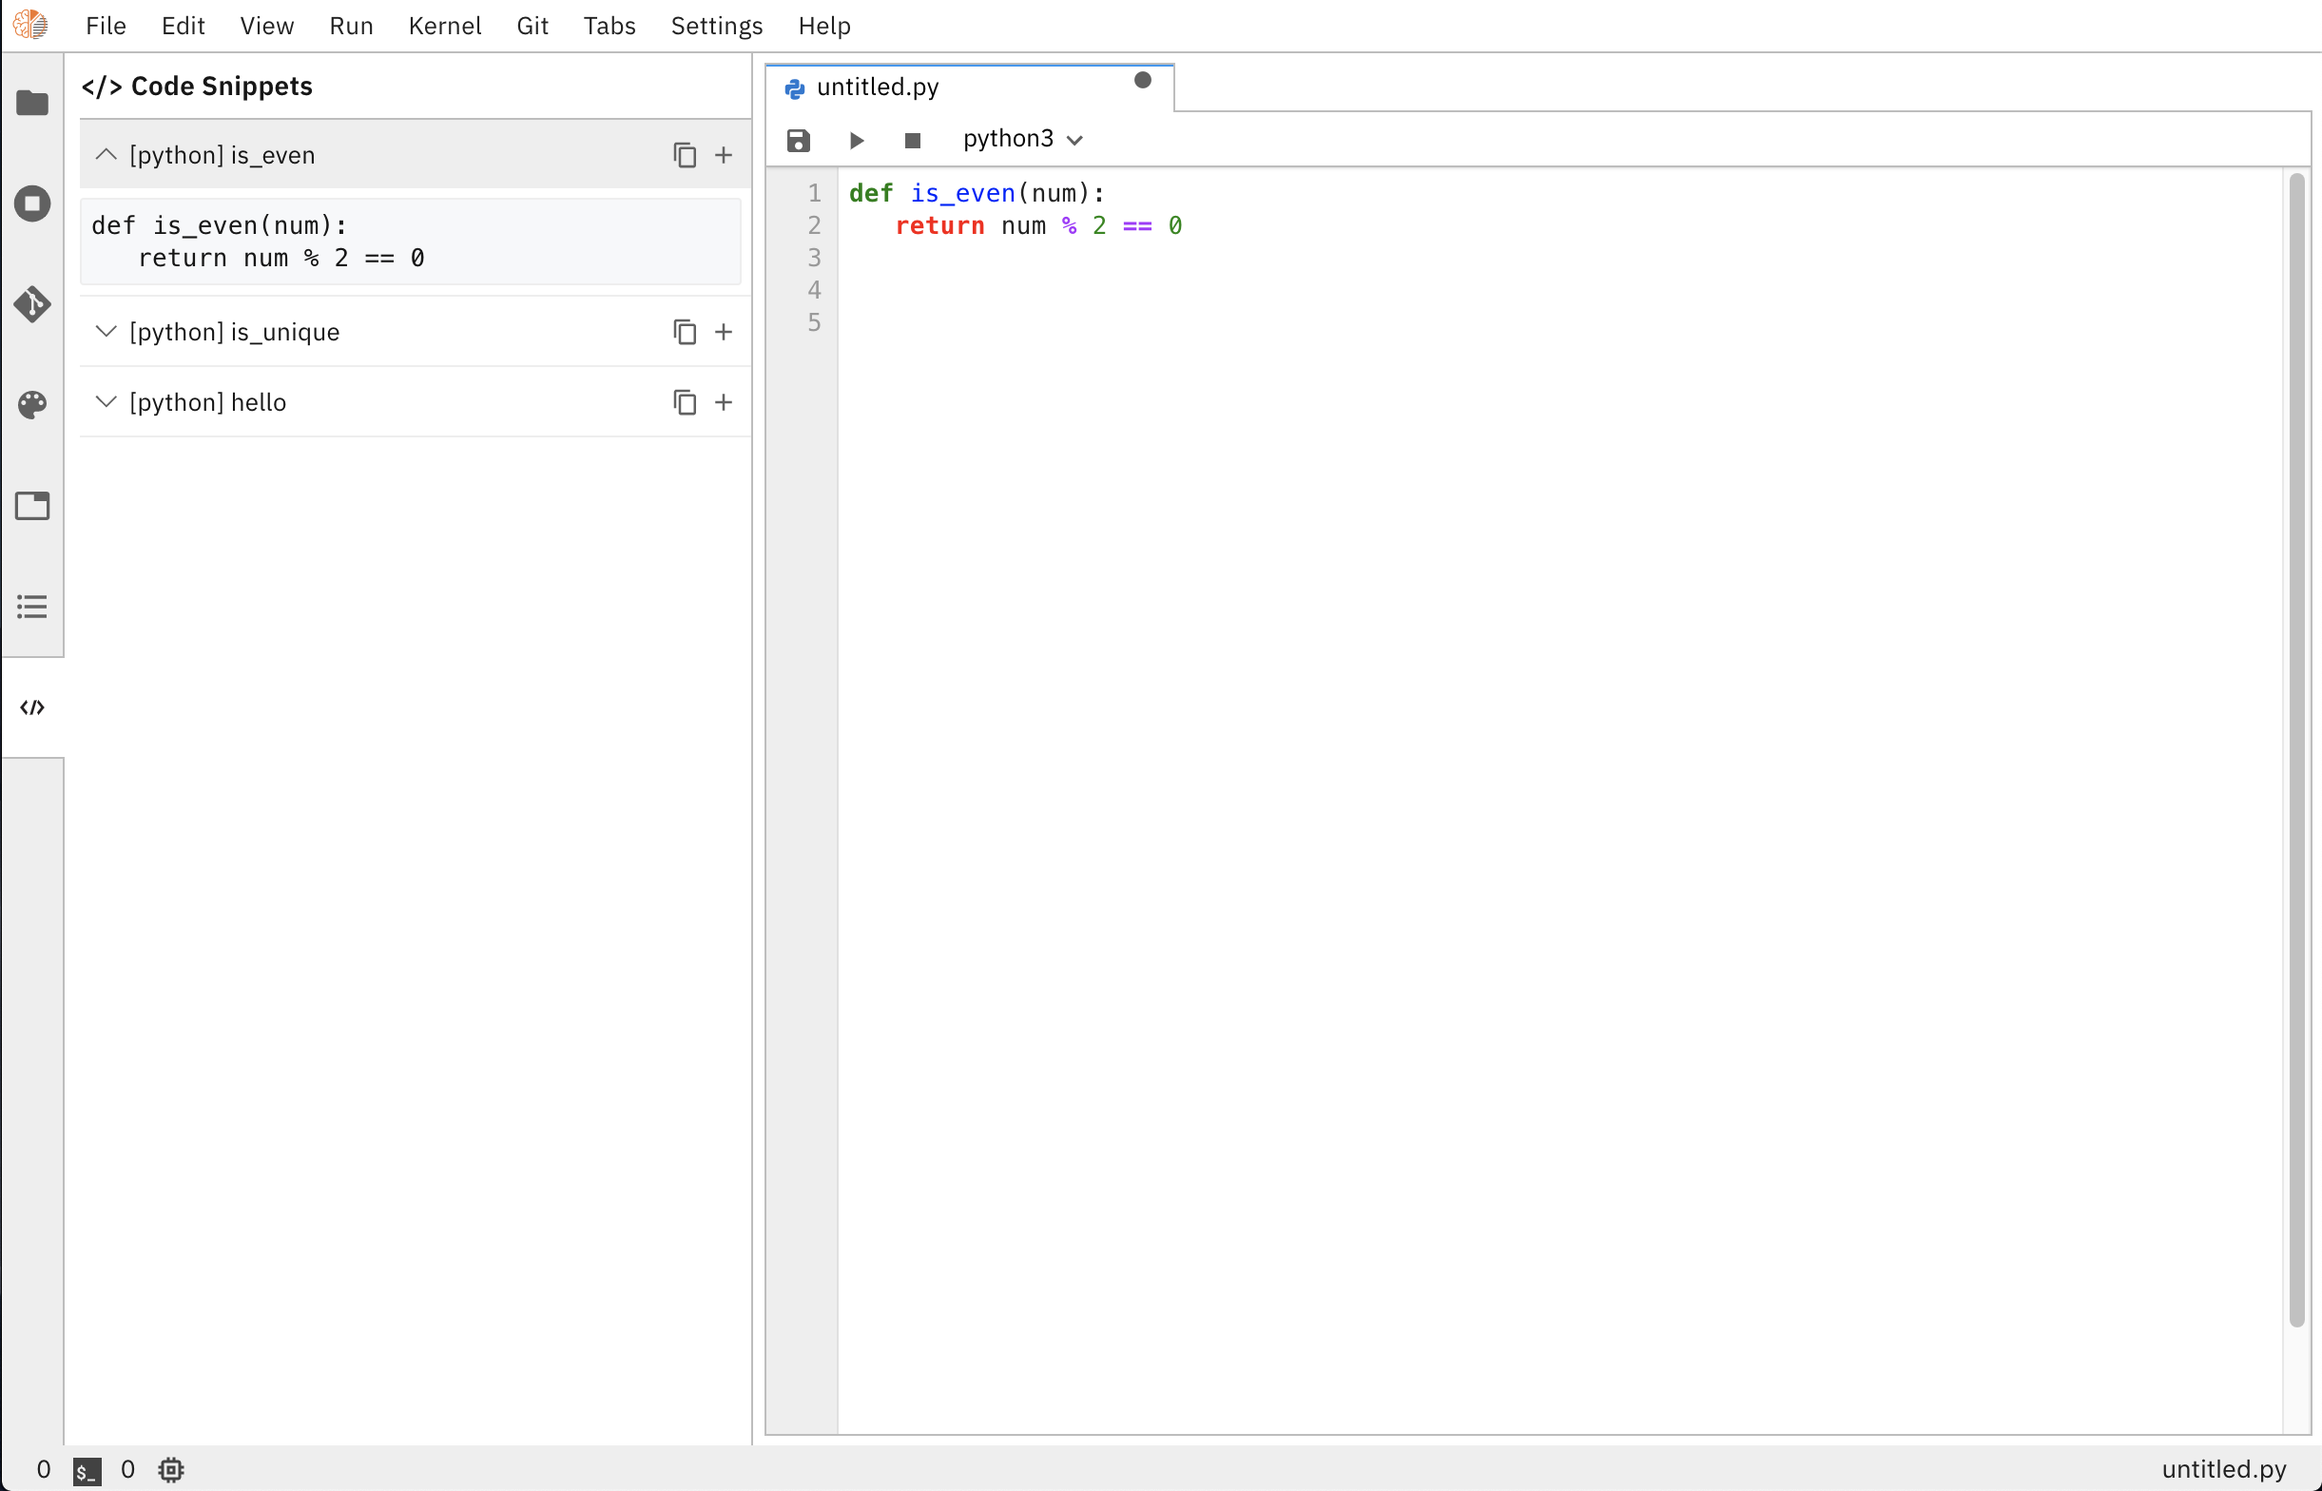
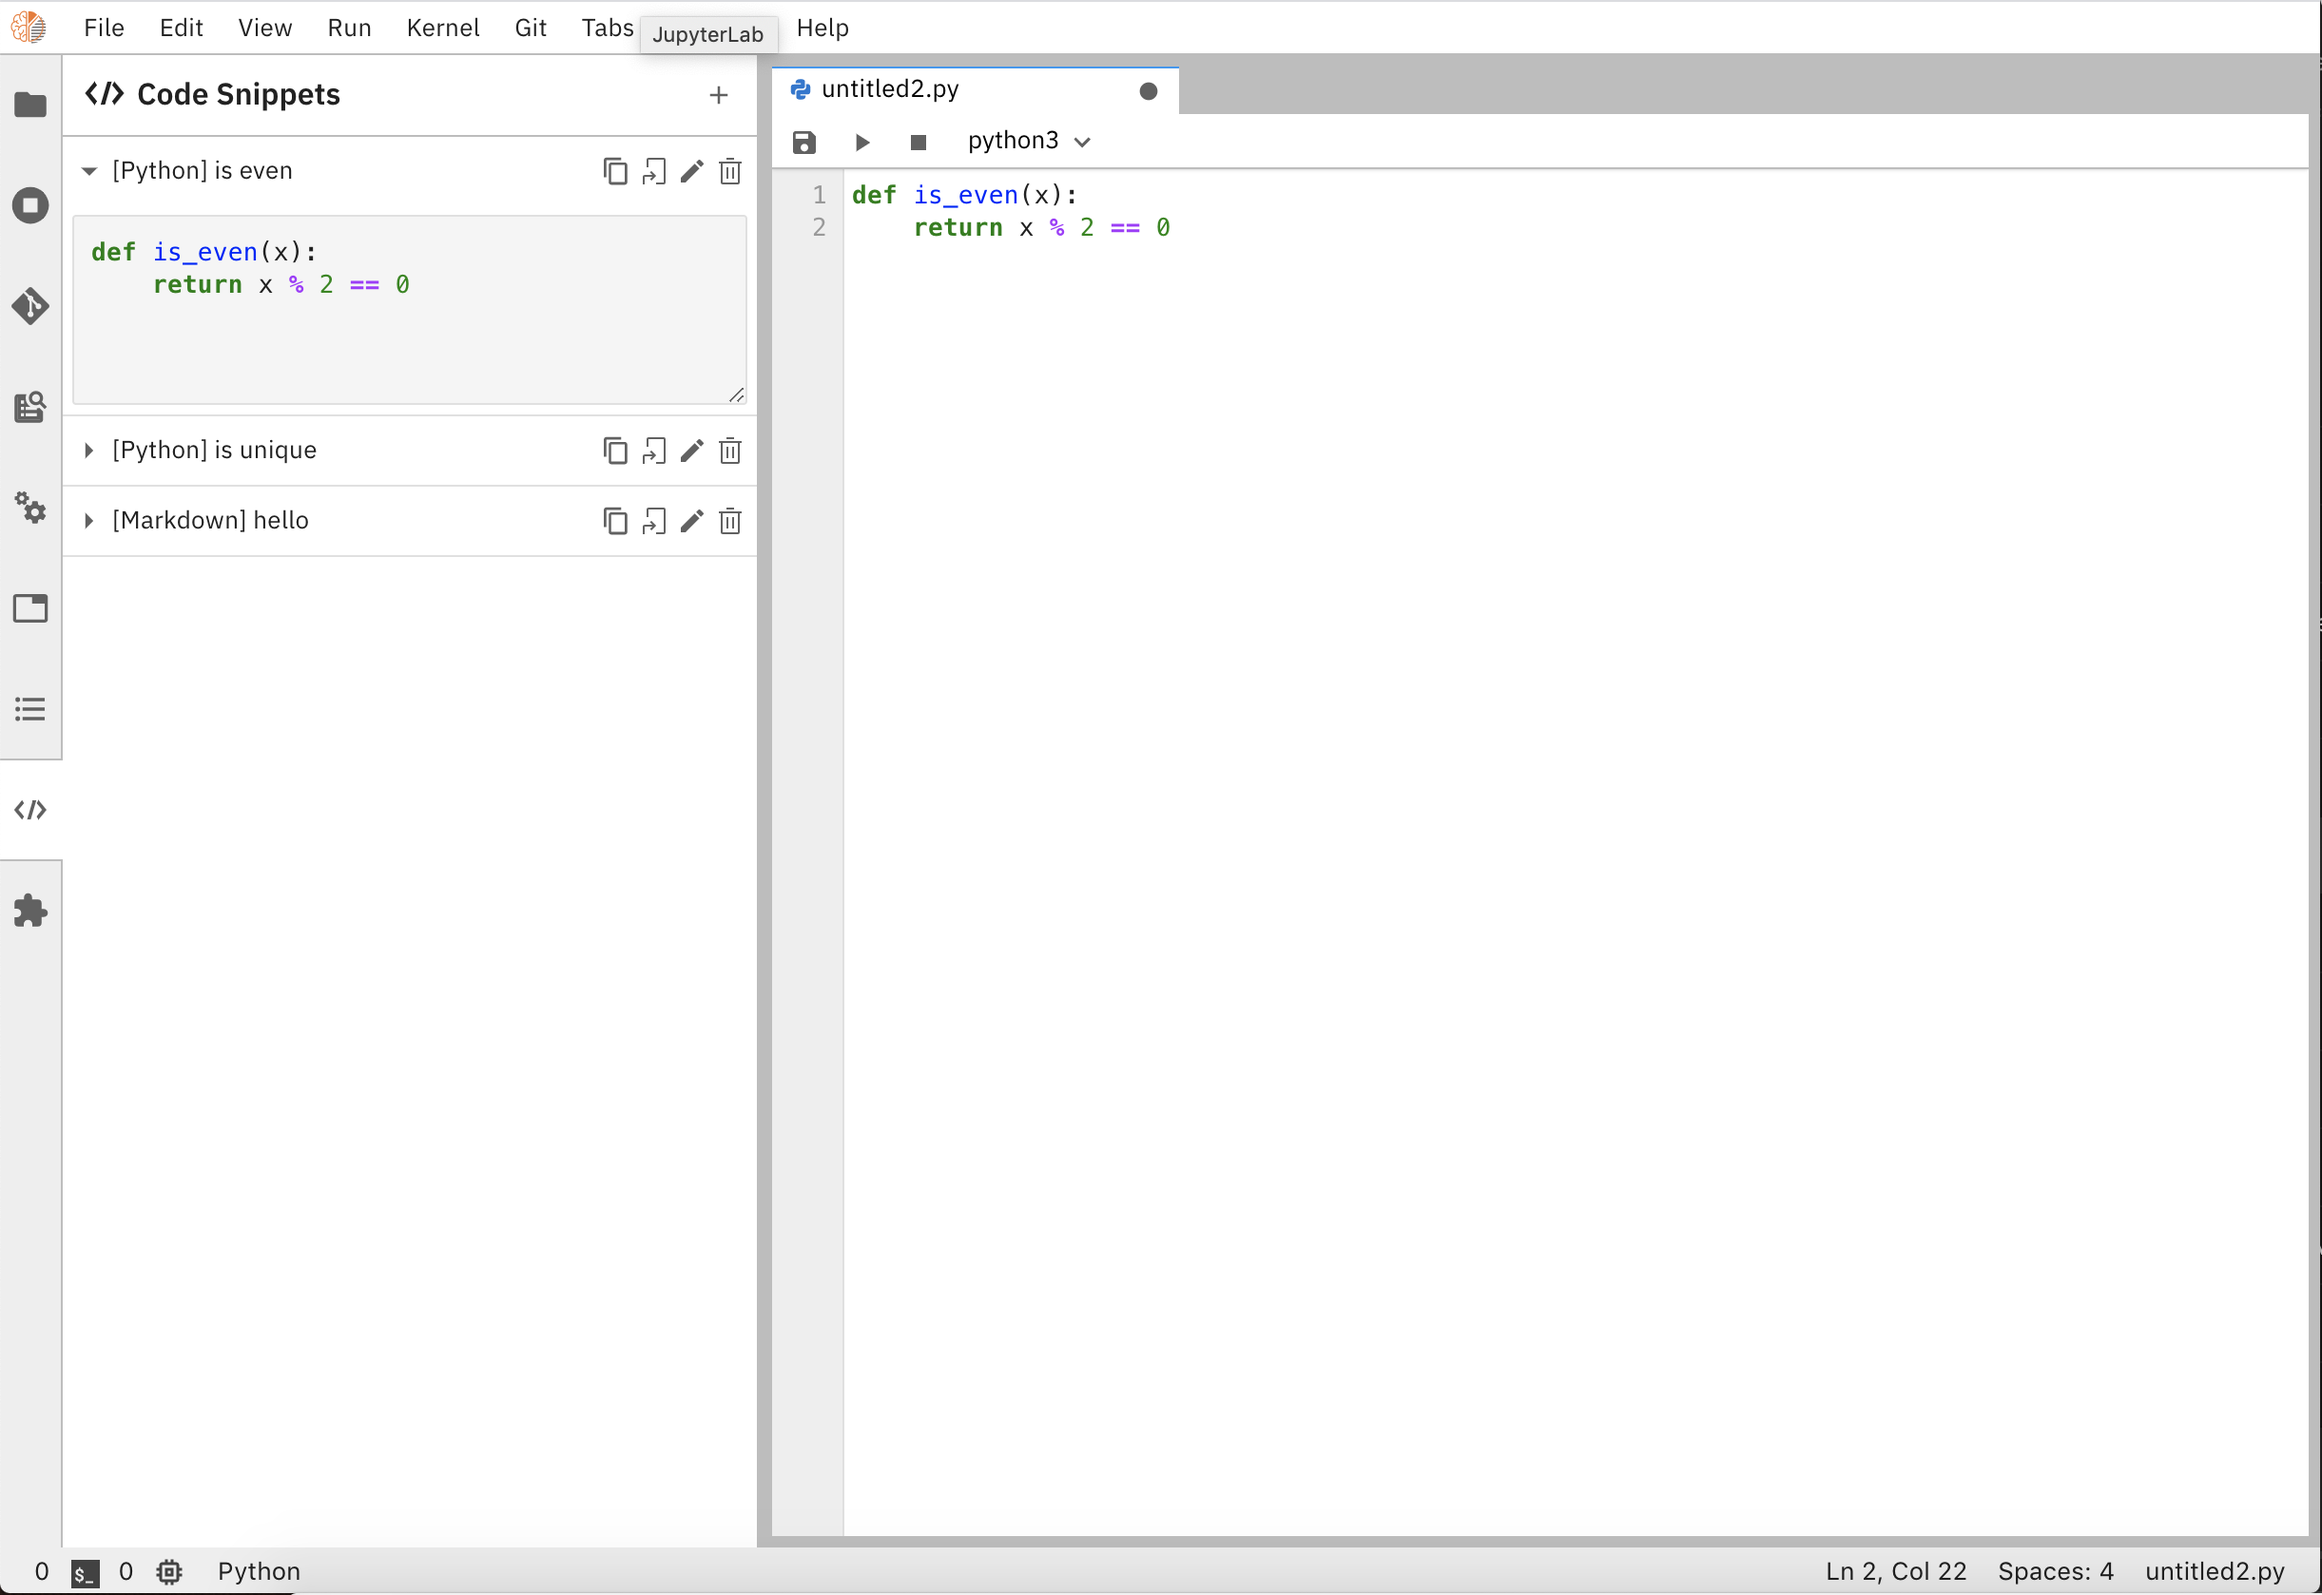
Add metadata editor to docs

Changed region(s): [[0.0, 0.0, 1.0, 1.0], [0.0, 0.9688, 0.1245, 1.0]]

diff --git a/docs/source/user_guide/code-snippets.md b/docs/source/user_guide/code-snippets.md
@@ -23,7 +23,19 @@ Elyra supports custom code snippets that can be added to the file editor.
 
 ![Code Snippets](../images/code-snippets.png)
 
-### Code Snippet data
+### Adding and Editing Code Snippets
+
+To add a code snippet, simply click the `+` button in the top right corner of the code snippets side pane, and an editor will appear in the main area of JupyterLab.
+
+![Add Code Snippets](../images/add-code-snippets.png)
+
+To edit a code snippet, click the edit button to open an editor in the main area of JupyterLab.
+
+![Edit Code Snippets](../images/edit-code-snippets.png)
+
+Click "Save and Close" to see your edits in the code snippets side pane.
+
+#### Code Snippet data
 This extension uses [Elyra Metadata Service](../developer_guide/metadata)
 and requires configuring code snippets metadata in order to retrieve and display snippets in the UI.
 To configure metadata for code snippets, locate `[JUPYTER DATA DIR]/metadata/` folder and create the subdirectory `code-snippets/`.
